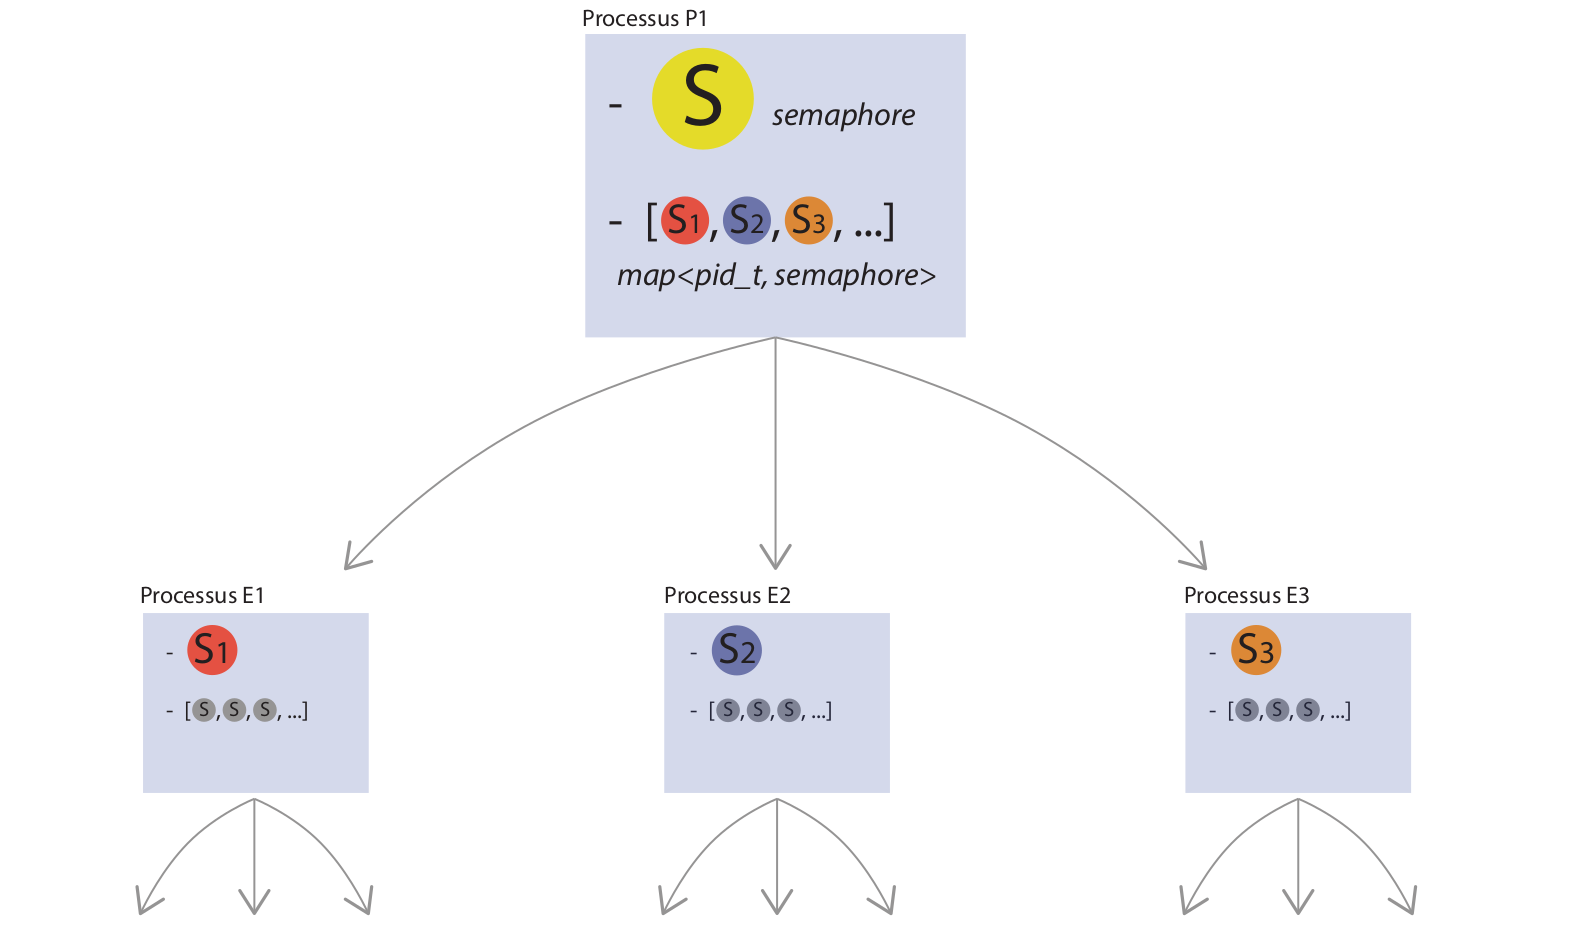
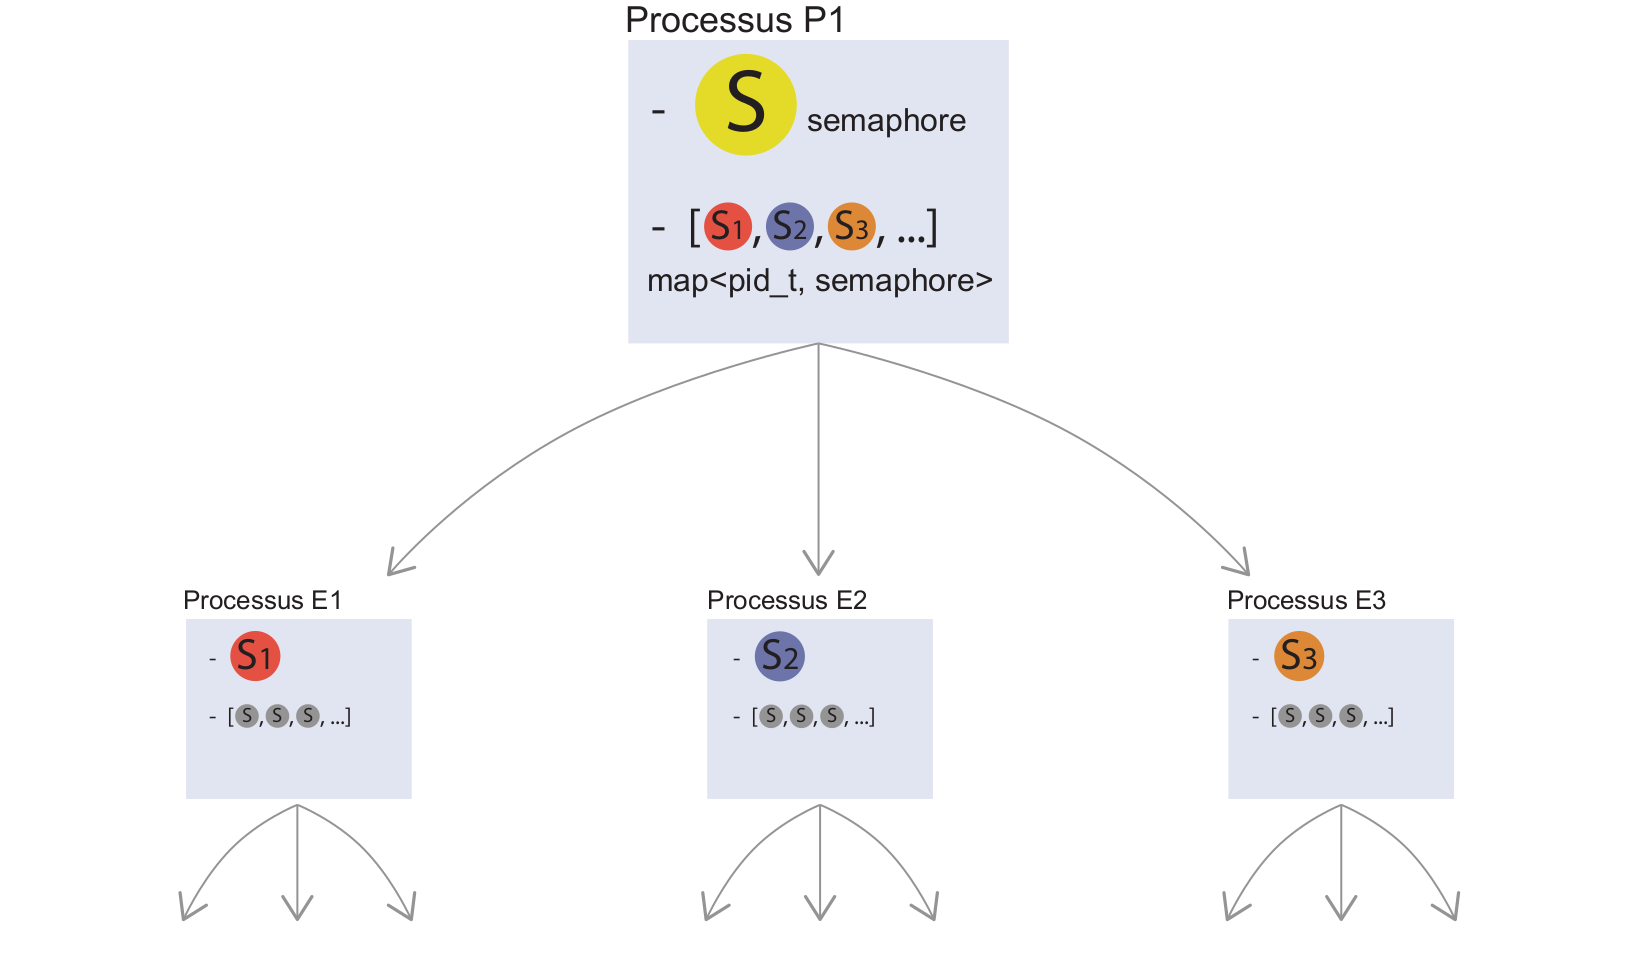
modification du beamer

diff --git a/presentation/presentation.tex b/presentation/presentation.tex
@@ -114,7 +114,7 @@
 % Section and subsections will appear in the presentation overview
 % and table of contents.
 
-\section{Nachos Input-Output}
+\section{Nachos Entrées-Sorties}
 \subsection{Appels systèmes et choix d'implémentations }
 \begin{frame}
 	\begin{block}{Appels systèmes}
@@ -130,24 +130,17 @@
 	\begin{block}{Choix d’implémentation}
 		\begin{itemize}
 			\item Limite de chaîne de caractères traités de 200
-			\item Les '$\backslash$0' et les 'EOF' sont pris en compte
+			\item Les '$\backslash$n' et les 'EOF' sont pris en compte
 			\item La fonction PutString n'est pas synchrone 
 		\end{itemize}		
 	\end{block}
 \end{frame}
-
-
-
-
-
-
 
 \section{Multi-Threading}
 \subsection{Gestion de la pile}
 \begin{frame}
 	\begin{block}{Choix d’implémentation }
 		\begin{itemize}
-			\item L'identifiant d'un Thread est unique, il n'est jamais réutilisé
 			\item Le nombre de Threads est limité à 50 
 			\item L'emplacement dans la pile des Threads est géré avec une Bitmap
 			\item 3 pages sont allouées à chaque Thread utilisateur 
@@ -157,19 +150,19 @@
 
 \begin{frame}{Illustration du placement des Threads}
   	\begin{center}
-	  	\includegraphics[scale=0.23]{images/FS3.png}
+	  	\includegraphics[scale=0.24]{images/FS3.png}
   	\end{center}
 \end{frame}
 
 \begin{frame}{Illustration du placement des Threads}
   	\begin{center}
-	  	\includegraphics[scale=0.23]{images/FS4.png}
+	  	\includegraphics[scale=0.24]{images/FS4.png}
   	\end{center}
 \end{frame}
 
 \begin{frame}{Illustration du placement des Threads}
   	\begin{center}
-	  	\includegraphics[scale=0.25]{images/FS5.png}
+	  	\includegraphics[scale=0.24]{images/FS5.png}
   	\end{center}
 \end{frame}
 
@@ -198,6 +191,7 @@
 \begin{frame}
 	\begin{block}{Choix d’implémentation }
 		\begin{itemize}[<+->]
+			\item L'identifiant d'un Thread est unique, il n'est jamais réutilisé
 			\item La gestion de la terminaison des Threads est laissée à l'utilisateur, sauf pour le main
 			\item Un Thread peut faire un \texttt{UserThreadJoin} sur n'importe quel Thread créé lors de l'exécution du programme
 			\item C'est à l'utilisateur d'utiliser correctement \texttt{UserThreadJoin}
@@ -222,6 +216,9 @@
 			\item<7-> Fonctionnement avec une table de sémaphores noyau
 		\end{itemize}
 	\end{block}
+	  	\begin{center}
+	  		\includegraphics[scale=0.14]{images/FS7.png}
+  	\end{center}
 \end{frame}
 
 
@@ -240,9 +237,9 @@
 		\end{itemize}
 	\end{block}
 \end{frame}
-\subsection{Multiprocessus}
+\subsection{Multi-Processus}
 
-\begin{frame}{Multiprocessus}
+\begin{frame}{Multi-Processus}
 	\begin{block}{Appel système}
 		\begin{itemize}[<+->]
 			\item Création d'un nouveau type utilisateur pid\_t
@@ -278,7 +275,7 @@
   	\end{itemize}  
   \end{block}
   \begin{center}
-	  \includegraphics[scale=0.2]{images/FS1.png}
+	  \includegraphics[scale=0.21]{images/FS1.png}
   \end{center}
 \end{frame}
 
@@ -350,5 +347,8 @@
   	\end{center}	
 \end{frame}
 
+\begin{frame}
+  \titlepage
+\end{frame}
 \end{document}
 
